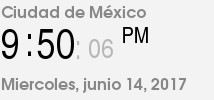
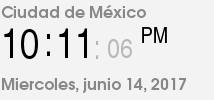
update images 14-06-2017 22:11

Changed region(s): [[0.0, 0.27, 0.785, 0.6]]

diff --git a/README.md b/README.md
@@ -4970,3 +4970,5 @@
 |14-06-2017 21:20
 |14-06-2017 21:40
 |14-06-2017 21:50
+|14-06-2017 22:03
+|14-06-2017 22:11
